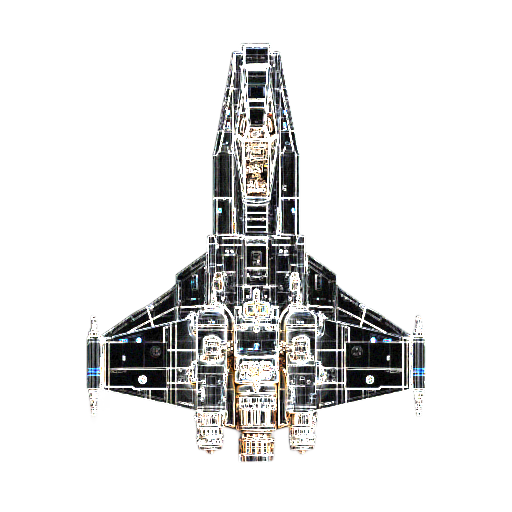
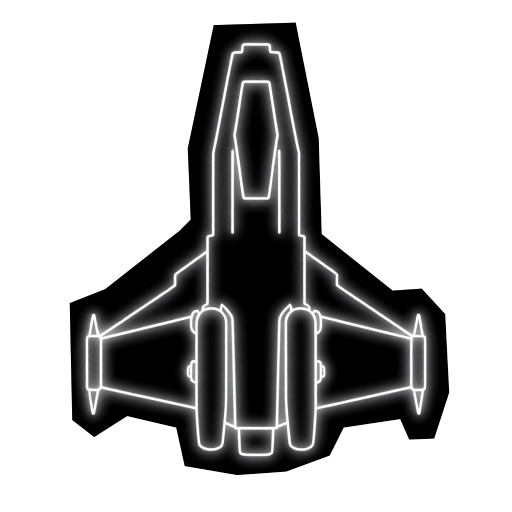
updated vectrex texture

diff --git a/src/js/entities/player/Spaceship.js b/src/js/entities/player/Spaceship.js
@@ -44,6 +44,7 @@ let _getSuppressWarpInputUntil = null;
 let _getViewportSize = null;
 let _getInternalSize = null;
 let _getPlayerHullExternalReady = null;
+let _getPlayerHullVectrexExternalReady = null;
 let _getSlackerHullExternalReady = null;
 let _getSlackerHullVectrexExternalReady = null;
 
@@ -72,6 +73,8 @@ export function registerSpaceshipDependencies(deps) {
   if (deps.getInternalSize) _getInternalSize = deps.getInternalSize;
   if (deps.getPlayerHullExternalReady)
     _getPlayerHullExternalReady = deps.getPlayerHullExternalReady;
+  if (deps.getPlayerHullVectrexExternalReady)
+    _getPlayerHullVectrexExternalReady = deps.getPlayerHullVectrexExternalReady;
   if (deps.getSlackerHullExternalReady)
     _getSlackerHullExternalReady = deps.getSlackerHullExternalReady;
   if (deps.getSlackerHullVectrexExternalReady)
@@ -1820,8 +1823,13 @@ export class Spaceship extends Entity {
                 ? "slacker_hull"
                 : "player_hull";
         } else {
-          hullTexture = pixiTextures.player_hull;
-          hullAnchorKey = "player_hull";
+          hullTexture = isVectrexFilterEnabled()
+            ? pixiTextures.player_hull_vectrex || pixiTextures.player_hull
+            : pixiTextures.player_hull;
+          hullAnchorKey =
+            isVectrexFilterEnabled() && pixiTextures.player_hull_vectrex
+              ? "player_hull_vectrex"
+              : "player_hull";
         }
 
         const hull = new PIXI.Sprite(hullTexture);
@@ -1885,19 +1893,27 @@ export class Spaceship extends Entity {
       if (this._pixiHullSpr) {
         // Keep hull texture synced (important for late-loaded external image).
         const useSlackerHull = this.shipType === "slacker" && pixiTextures.slacker_hull;
-        const useVectrex =
+        const usePlayerHull = pixiTextures.player_hull;
+        const useVectrexSlacker =
           useSlackerHull && isVectrexFilterEnabled() && pixiTextures.slacker_hull_vectrex;
+        const useVectrexPlayer =
+          !useSlackerHull && isVectrexFilterEnabled() && pixiTextures.player_hull_vectrex;
+        const useVectrex = useVectrexSlacker || useVectrexPlayer;
 
-        this._pixiHullSpr.texture = useVectrex
+        this._pixiHullSpr.texture = useVectrexSlacker
           ? pixiTextures.slacker_hull_vectrex
-          : useSlackerHull
-            ? pixiTextures.slacker_hull
-            : pixiTextures.player_hull;
-        const hullAnchorKey = useVectrex
+          : useVectrexPlayer
+            ? pixiTextures.player_hull_vectrex
+            : useSlackerHull
+              ? pixiTextures.slacker_hull
+              : pixiTextures.player_hull;
+        const hullAnchorKey = useVectrexSlacker
           ? "slacker_hull_vectrex"
-          : useSlackerHull
-            ? "slacker_hull"
-            : "player_hull";
+          : useVectrexPlayer
+            ? "player_hull_vectrex"
+            : useSlackerHull
+              ? "slacker_hull"
+              : "player_hull";
         const hA = pixiTextureAnchors[hullAnchorKey] || { x: 0.5, y: 0.5 };
         this._pixiHullSpr.anchor.set(
           hA && hA.x != null ? hA.x : 0.5,
@@ -1912,10 +1928,15 @@ export class Spaceship extends Entity {
 
         let tex;
         let externalReady;
-        if (useVectrex) {
+        if (useVectrexSlacker) {
           tex = pixiTextures.slacker_hull_vectrex;
           externalReady = _getSlackerHullVectrexExternalReady
             ? _getSlackerHullVectrexExternalReady()
+            : false;
+        } else if (useVectrexPlayer) {
+          tex = pixiTextures.player_hull_vectrex;
+          externalReady = _getPlayerHullVectrexExternalReady
+            ? _getPlayerHullVectrexExternalReady()
             : false;
         } else if (useSlackerHull) {
           tex = pixiTextures.slacker_hull;

diff --git a/src/js/rendering/texture-manager.js b/src/js/rendering/texture-manager.js
@@ -47,6 +47,7 @@ const ASTEROID3_URL = "assets/asteroid3.png";
 const ASTEROID2_U_URL = "assets/asteroid2_U.png";
 const PLAYER1_URL = "assets/player1.png";
 const SLACKER_URL = "assets/slacker.png";
+const VECTREX_PLAYER1_URL = "assets/vectrex/player1_v.png";
 const VECTREX_SLACKER_URL = "assets/vectrex/slacker_v.png";
 const EXPLOSION1_URL = "assets/explosion1.png";
 
@@ -146,6 +147,10 @@ let playerHullPixiApplied = false;
 let slackerHullImage = null;
 let slackerHullExternalReady = false;
 let slackerHullPixiApplied = false;
+
+let playerHullVectrexImage = null;
+let playerHullVectrexExternalReady = false;
+let playerHullVectrexPixiApplied = false;
 
 let slackerHullVectrexImage = null;
 let slackerHullVectrexExternalReady = false;
@@ -286,6 +291,10 @@ export function initTextureAssets() {
   playerHullImage = new Image();
   playerHullImage.decoding = "async";
   playerHullImage.src = PLAYER1_URL;
+
+  playerHullVectrexImage = new Image();
+  playerHullVectrexImage.decoding = "async";
+  playerHullVectrexImage.src = VECTREX_PLAYER1_URL;
 
   slackerHullImage = new Image();
   slackerHullImage.decoding = "async";
@@ -494,6 +503,12 @@ export function initTextureAssets() {
   playerHullImage.addEventListener("error", () => {
     playerHullExternalReady = false;
     playerHullPixiApplied = false;
+  });
+
+  playerHullVectrexImage.addEventListener("load", applyPlayerHullVectrexTexture);
+  playerHullVectrexImage.addEventListener("error", () => {
+    playerHullVectrexExternalReady = false;
+    playerHullVectrexPixiApplied = false;
   });
 
   slackerHullImage.addEventListener("load", applySlackerHullTexture);
@@ -1071,6 +1086,28 @@ function applySlackerHullTexture() {
   } catch (e) {}
 }
 
+function applyPlayerHullVectrexTexture() {
+  if (!playerHullVectrexImage || playerHullVectrexImage.naturalWidth <= 0) return;
+
+  playerHullVectrexExternalReady = true;
+
+  if (playerHullVectrexPixiApplied || !window.PIXI) return;
+  if (!pixiTextures || !pixiTextureAnchors) return;
+  try {
+    const tex = PIXI.Texture.from(playerHullVectrexImage);
+    try {
+      tex.baseTexture.scaleMode = PIXI.SCALE_MODES.LINEAR;
+    } catch (e) {}
+    try {
+      tex.baseTexture.mipmap = PIXI.MIPMAP_MODES.ON;
+    } catch (e) {}
+
+    pixiTextures.player_hull_vectrex = tex;
+    pixiTextureAnchors.player_hull_vectrex = 0.5;
+    playerHullVectrexPixiApplied = true;
+  } catch (e) {}
+}
+
 function applySlackerHullVectrexTexture() {
   if (!slackerHullVectrexImage || slackerHullVectrexImage.naturalWidth <= 0) return;
 
@@ -1114,11 +1151,12 @@ export function getSlackerHullExternalReady() {
   return slackerHullExternalReady;
 }
 
-/**
- * @returns {boolean}
- */
 export function getSlackerHullVectrexExternalReady() {
   return slackerHullVectrexExternalReady;
+}
+
+export function getPlayerHullVectrexExternalReady() {
+  return playerHullVectrexExternalReady;
 }
 
 /**

diff --git a/src/js/main.js b/src/js/main.js
@@ -35,6 +35,7 @@ import {
 import {
   initTextureAssets,
   getPlayerHullExternalReady,
+  getPlayerHullVectrexExternalReady,
   getSlackerHullExternalReady,
   getSlackerHullVectrexExternalReady
 } from "./rendering/texture-manager.js";
@@ -1323,6 +1324,7 @@ registerSpaceshipDependencies({
   getViewportSize: () => ({ width, height }),
   getInternalSize: () => ({ width: internalWidth, height: internalHeight }),
   getPlayerHullExternalReady,
+  getPlayerHullVectrexExternalReady,
   getSlackerHullExternalReady,
   getSlackerHullVectrexExternalReady
 });

diff --git a/src/js/rendering/texture-loader.js b/src/js/rendering/texture-loader.js
@@ -20,7 +20,9 @@ export const pixiTextures = {
   enemy_cruiser: null,
 
   player_hull: null,
+  player_hull_vectrex: null,
   slacker_hull: null,
+  slacker_hull_vectrex: null,
   player_turret_base: null,
   player_barrel: null,
   player_thruster: null,
